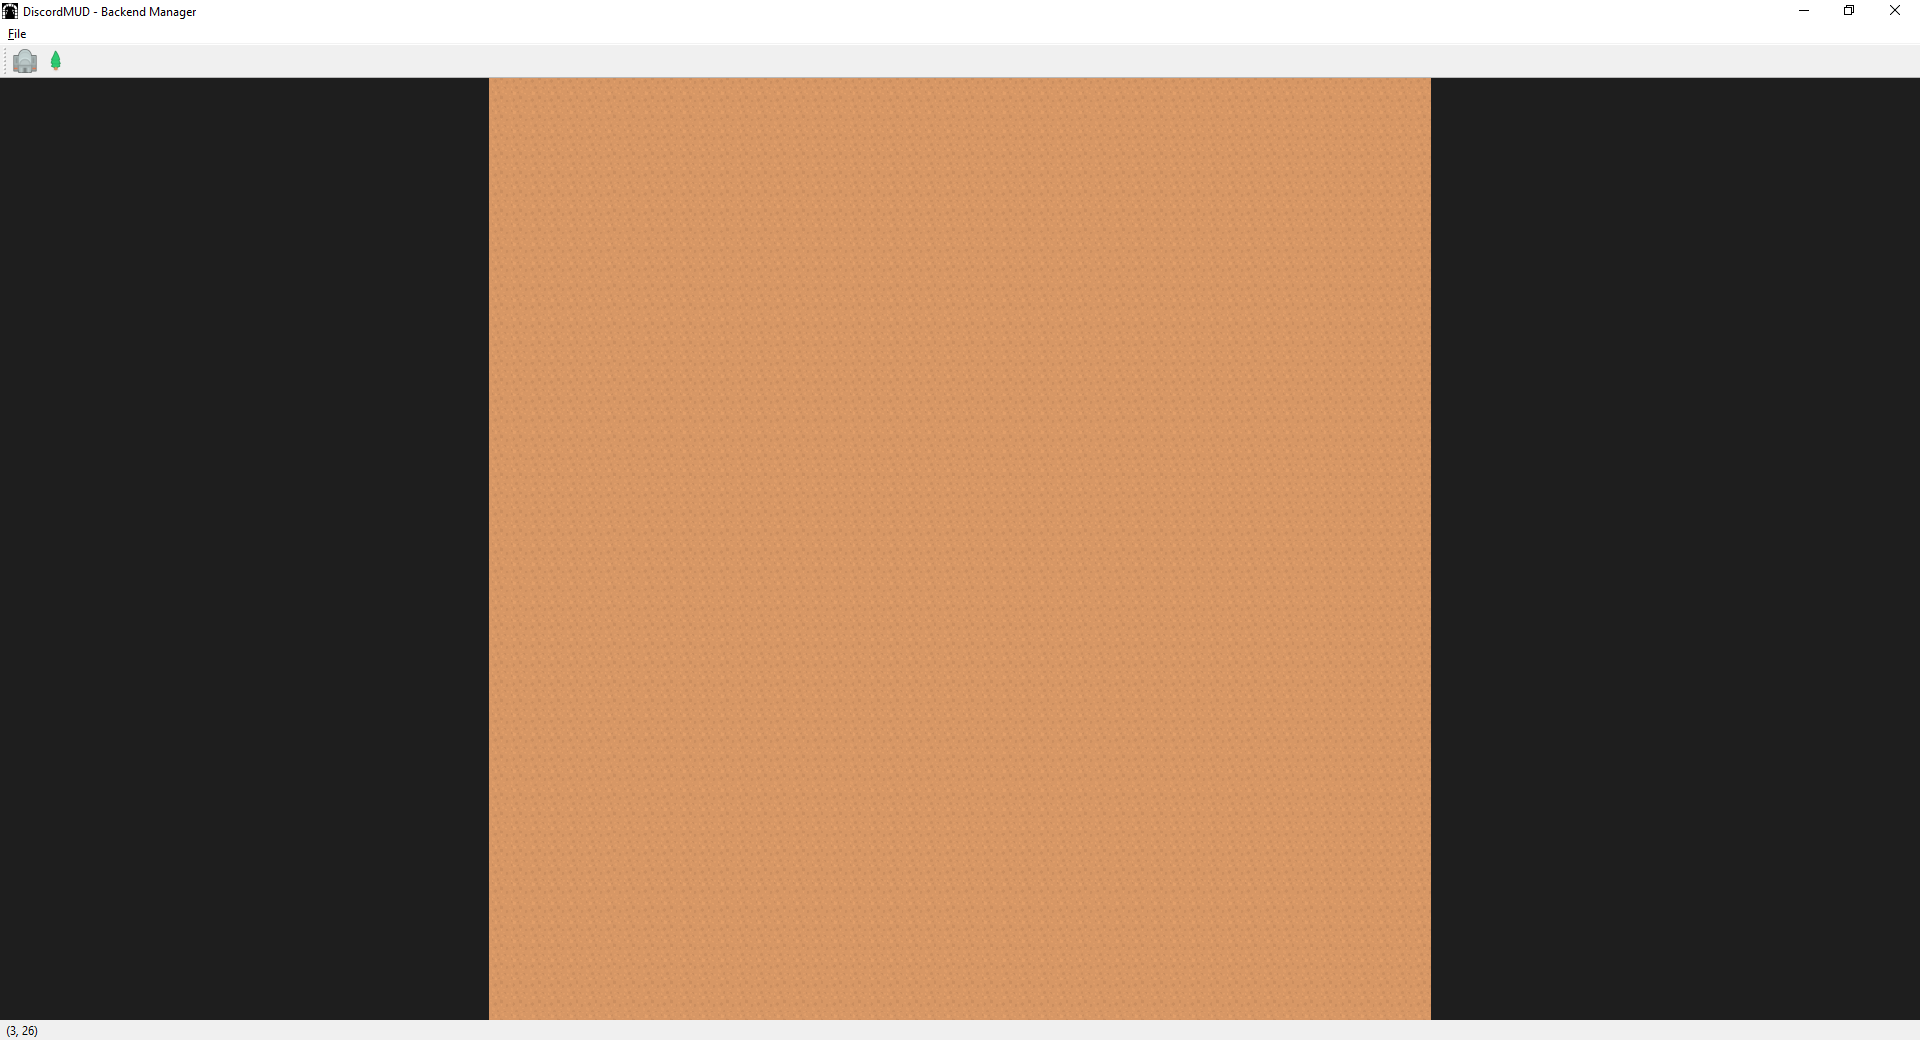
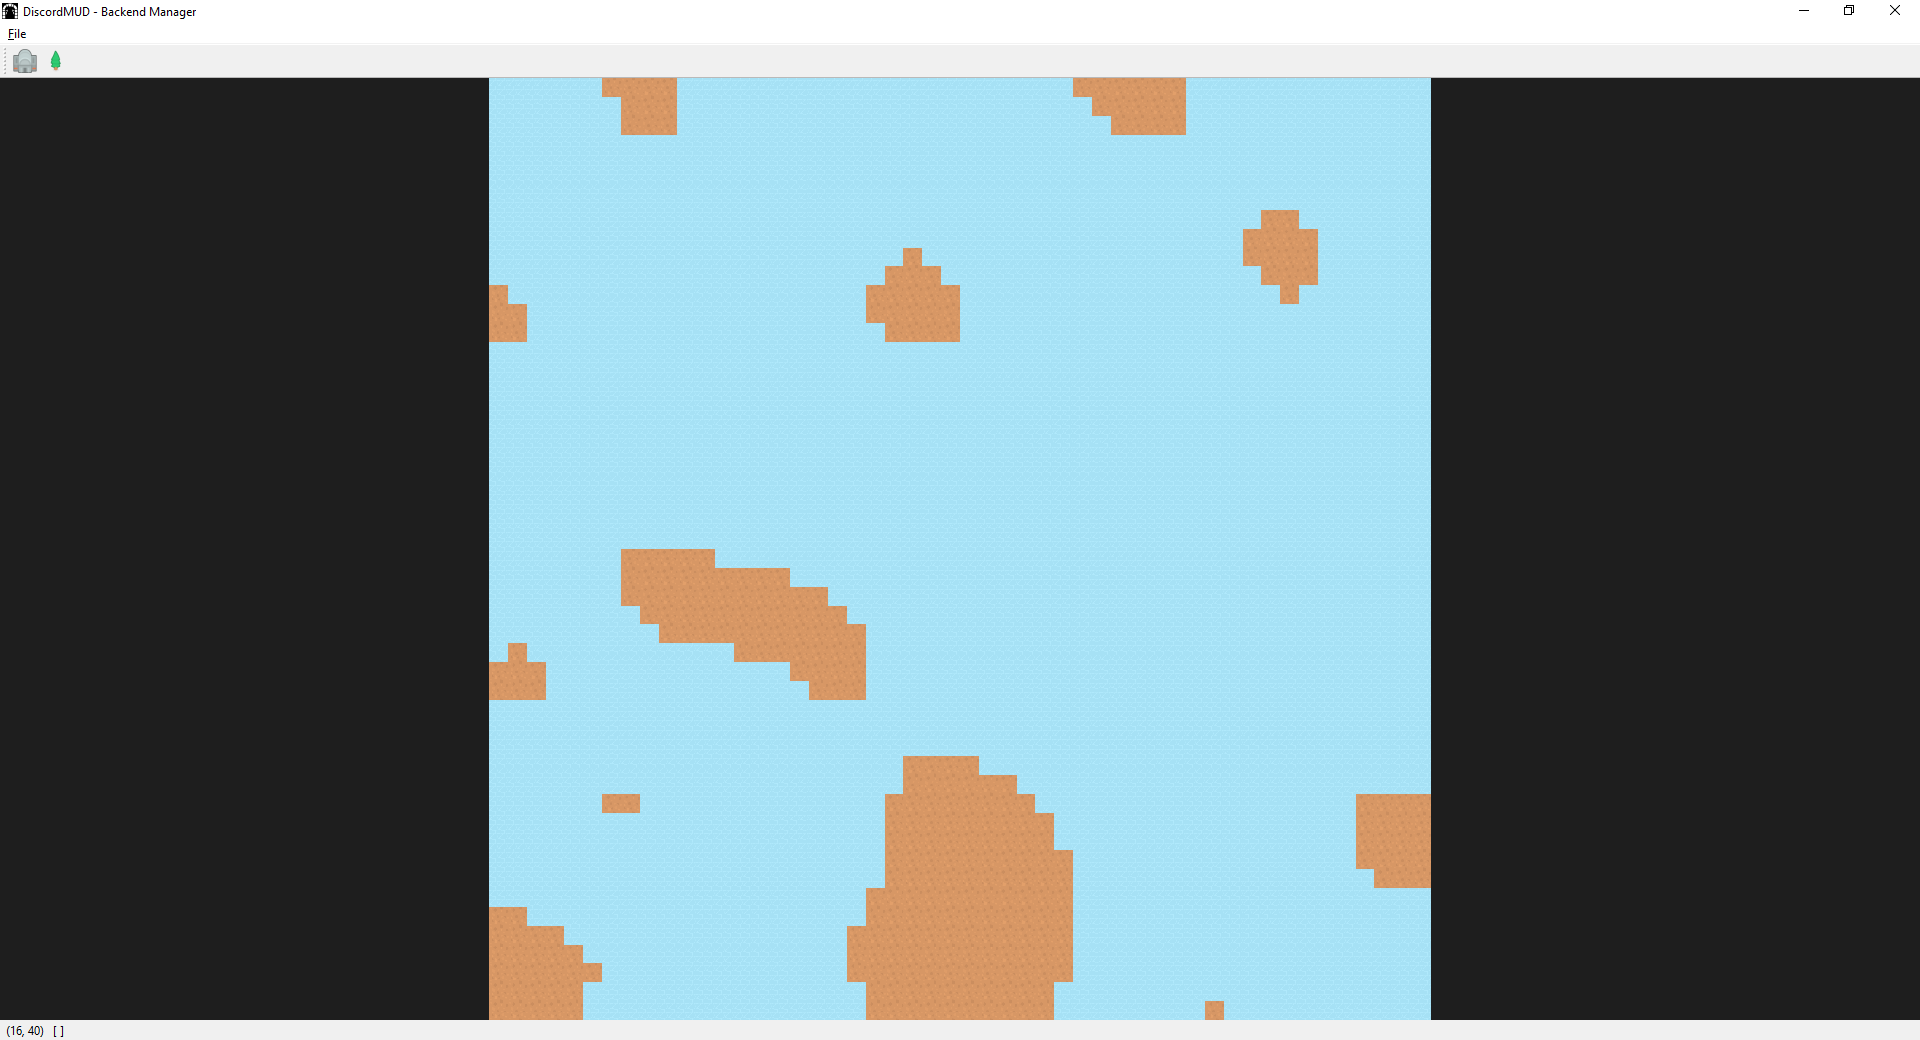
Updated readme and screenshots to show new generation features.

diff --git a/README.md b/README.md
@@ -15,7 +15,7 @@ for a world name and grid size.
 ![world creation window](./screenshots/1.png)
 
 # Getting started
-When you are done, some terrain should appear. 
+When you are done, some randomly generated terrain should appear. 
 
 <img src="./screenshots/2.png" alt="grass window" width="50%" height="50%"/>
 
